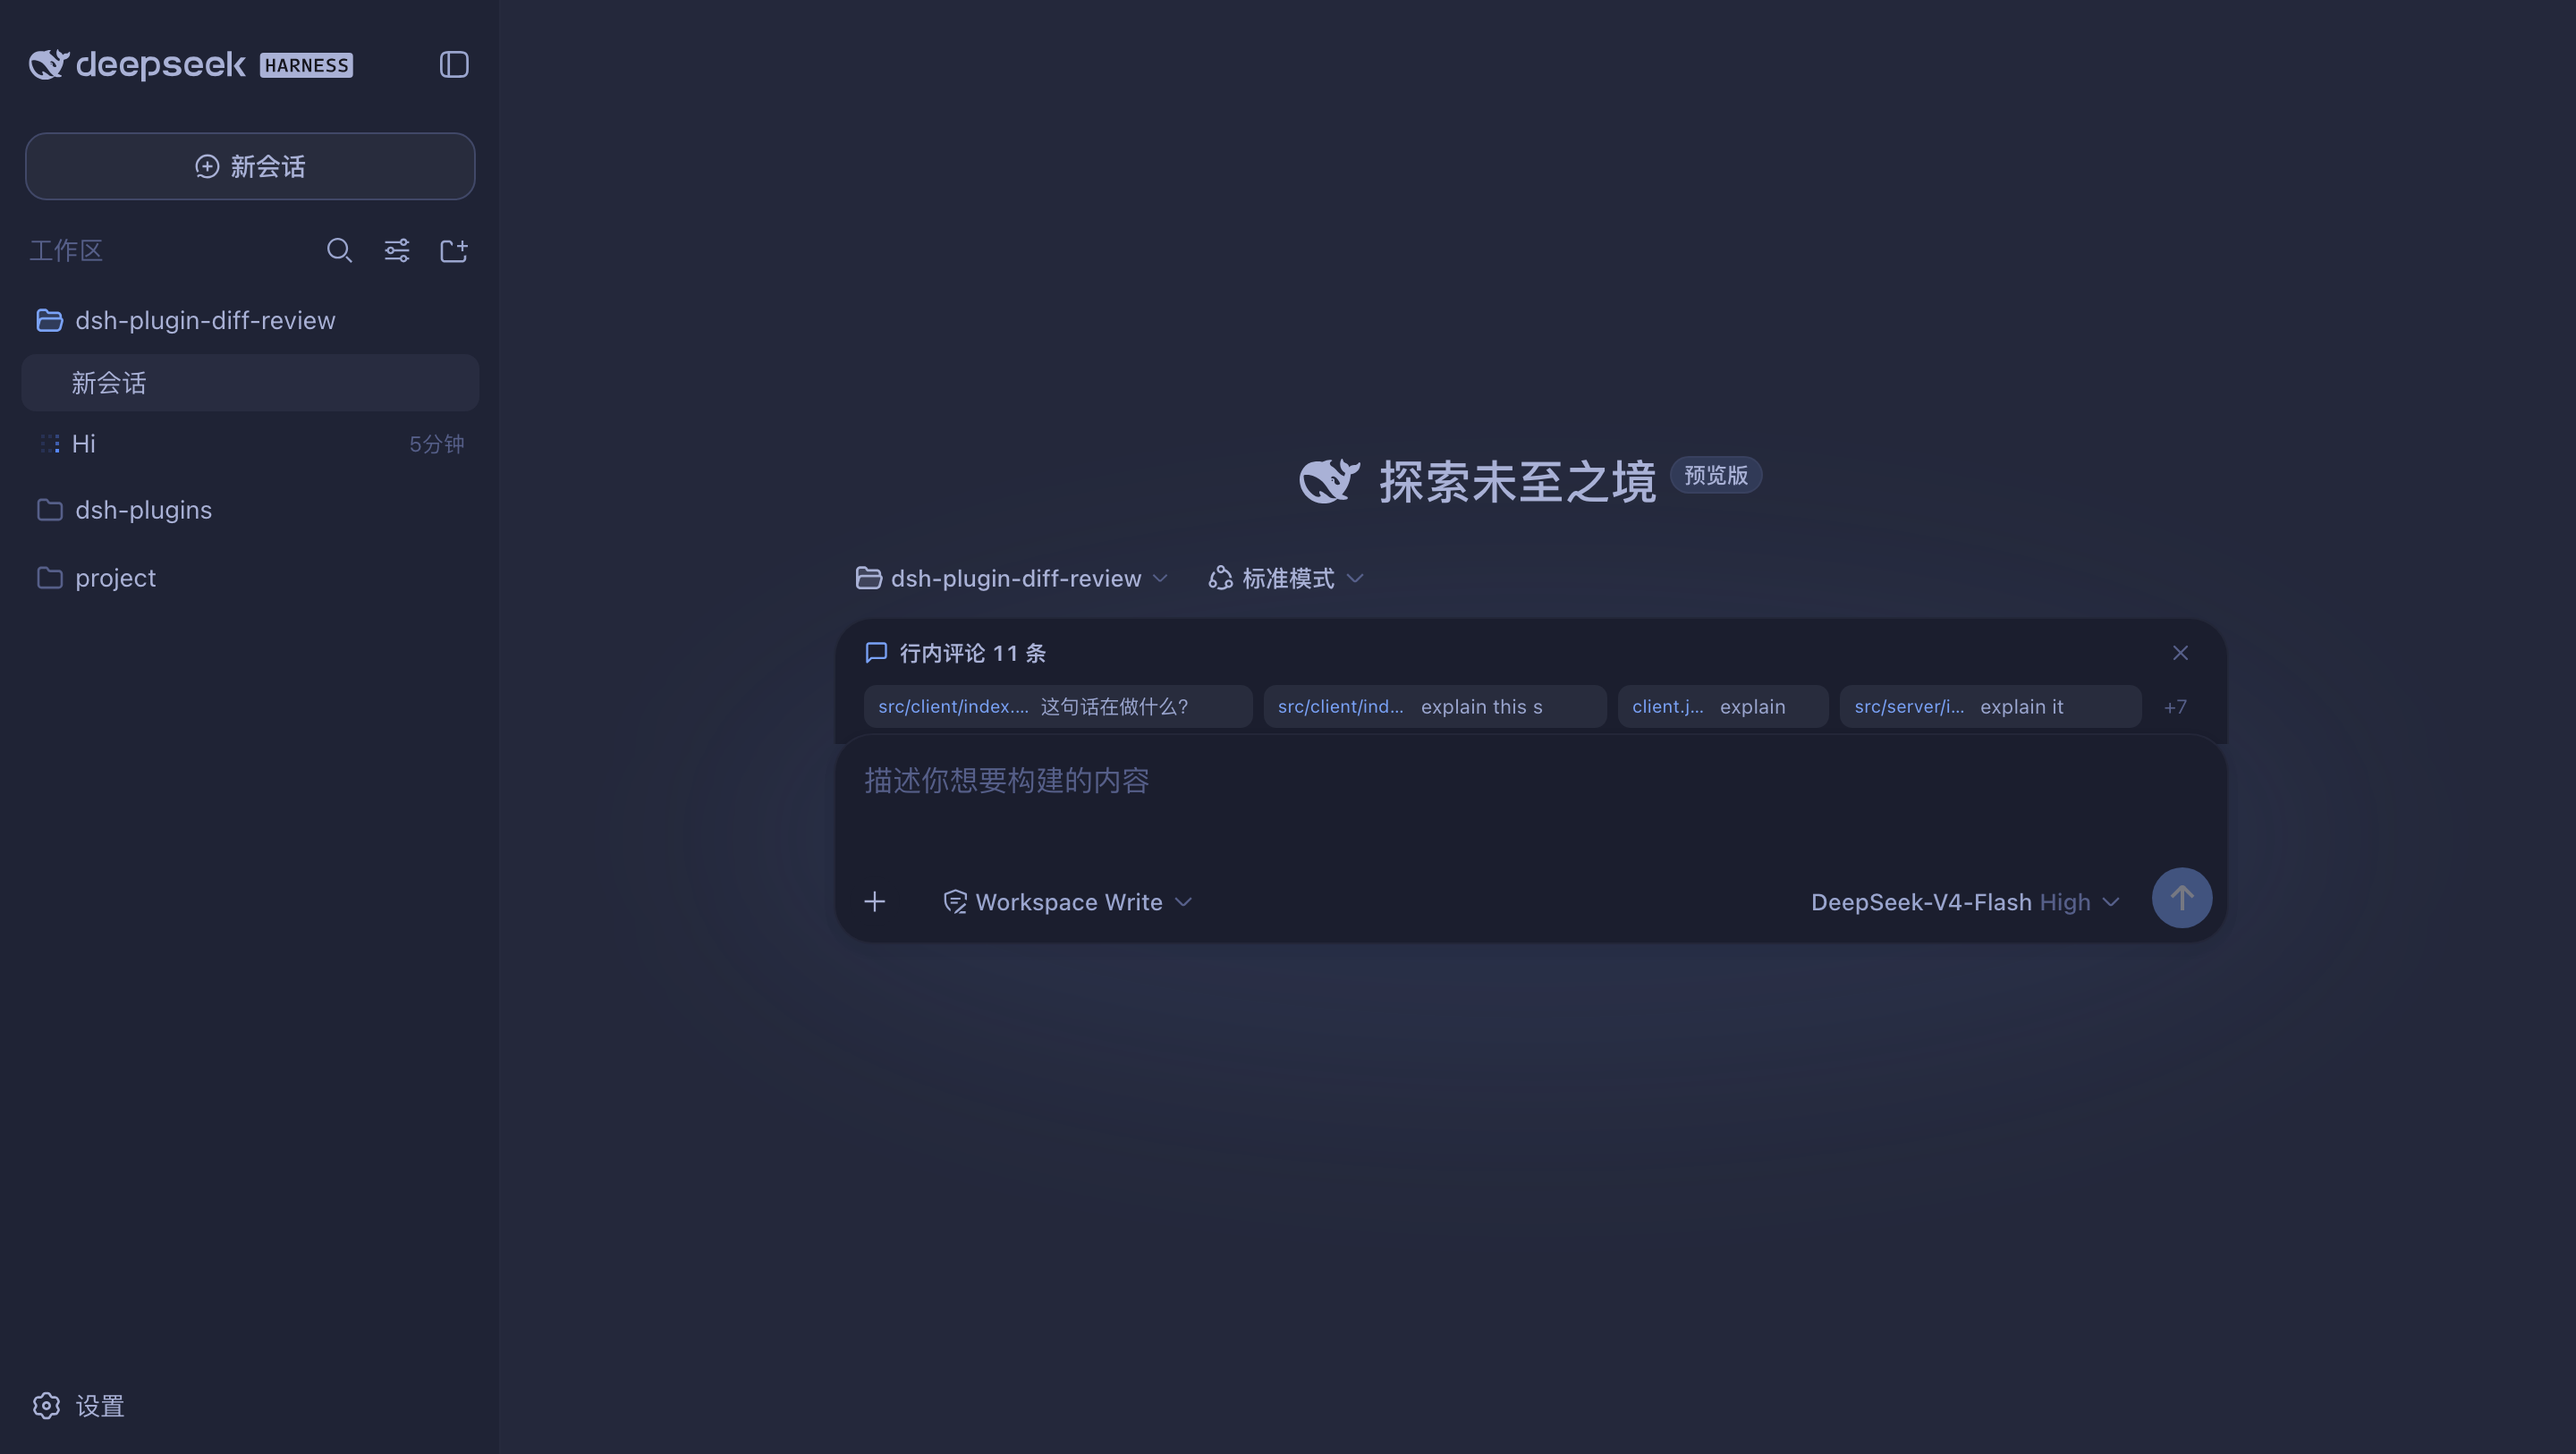
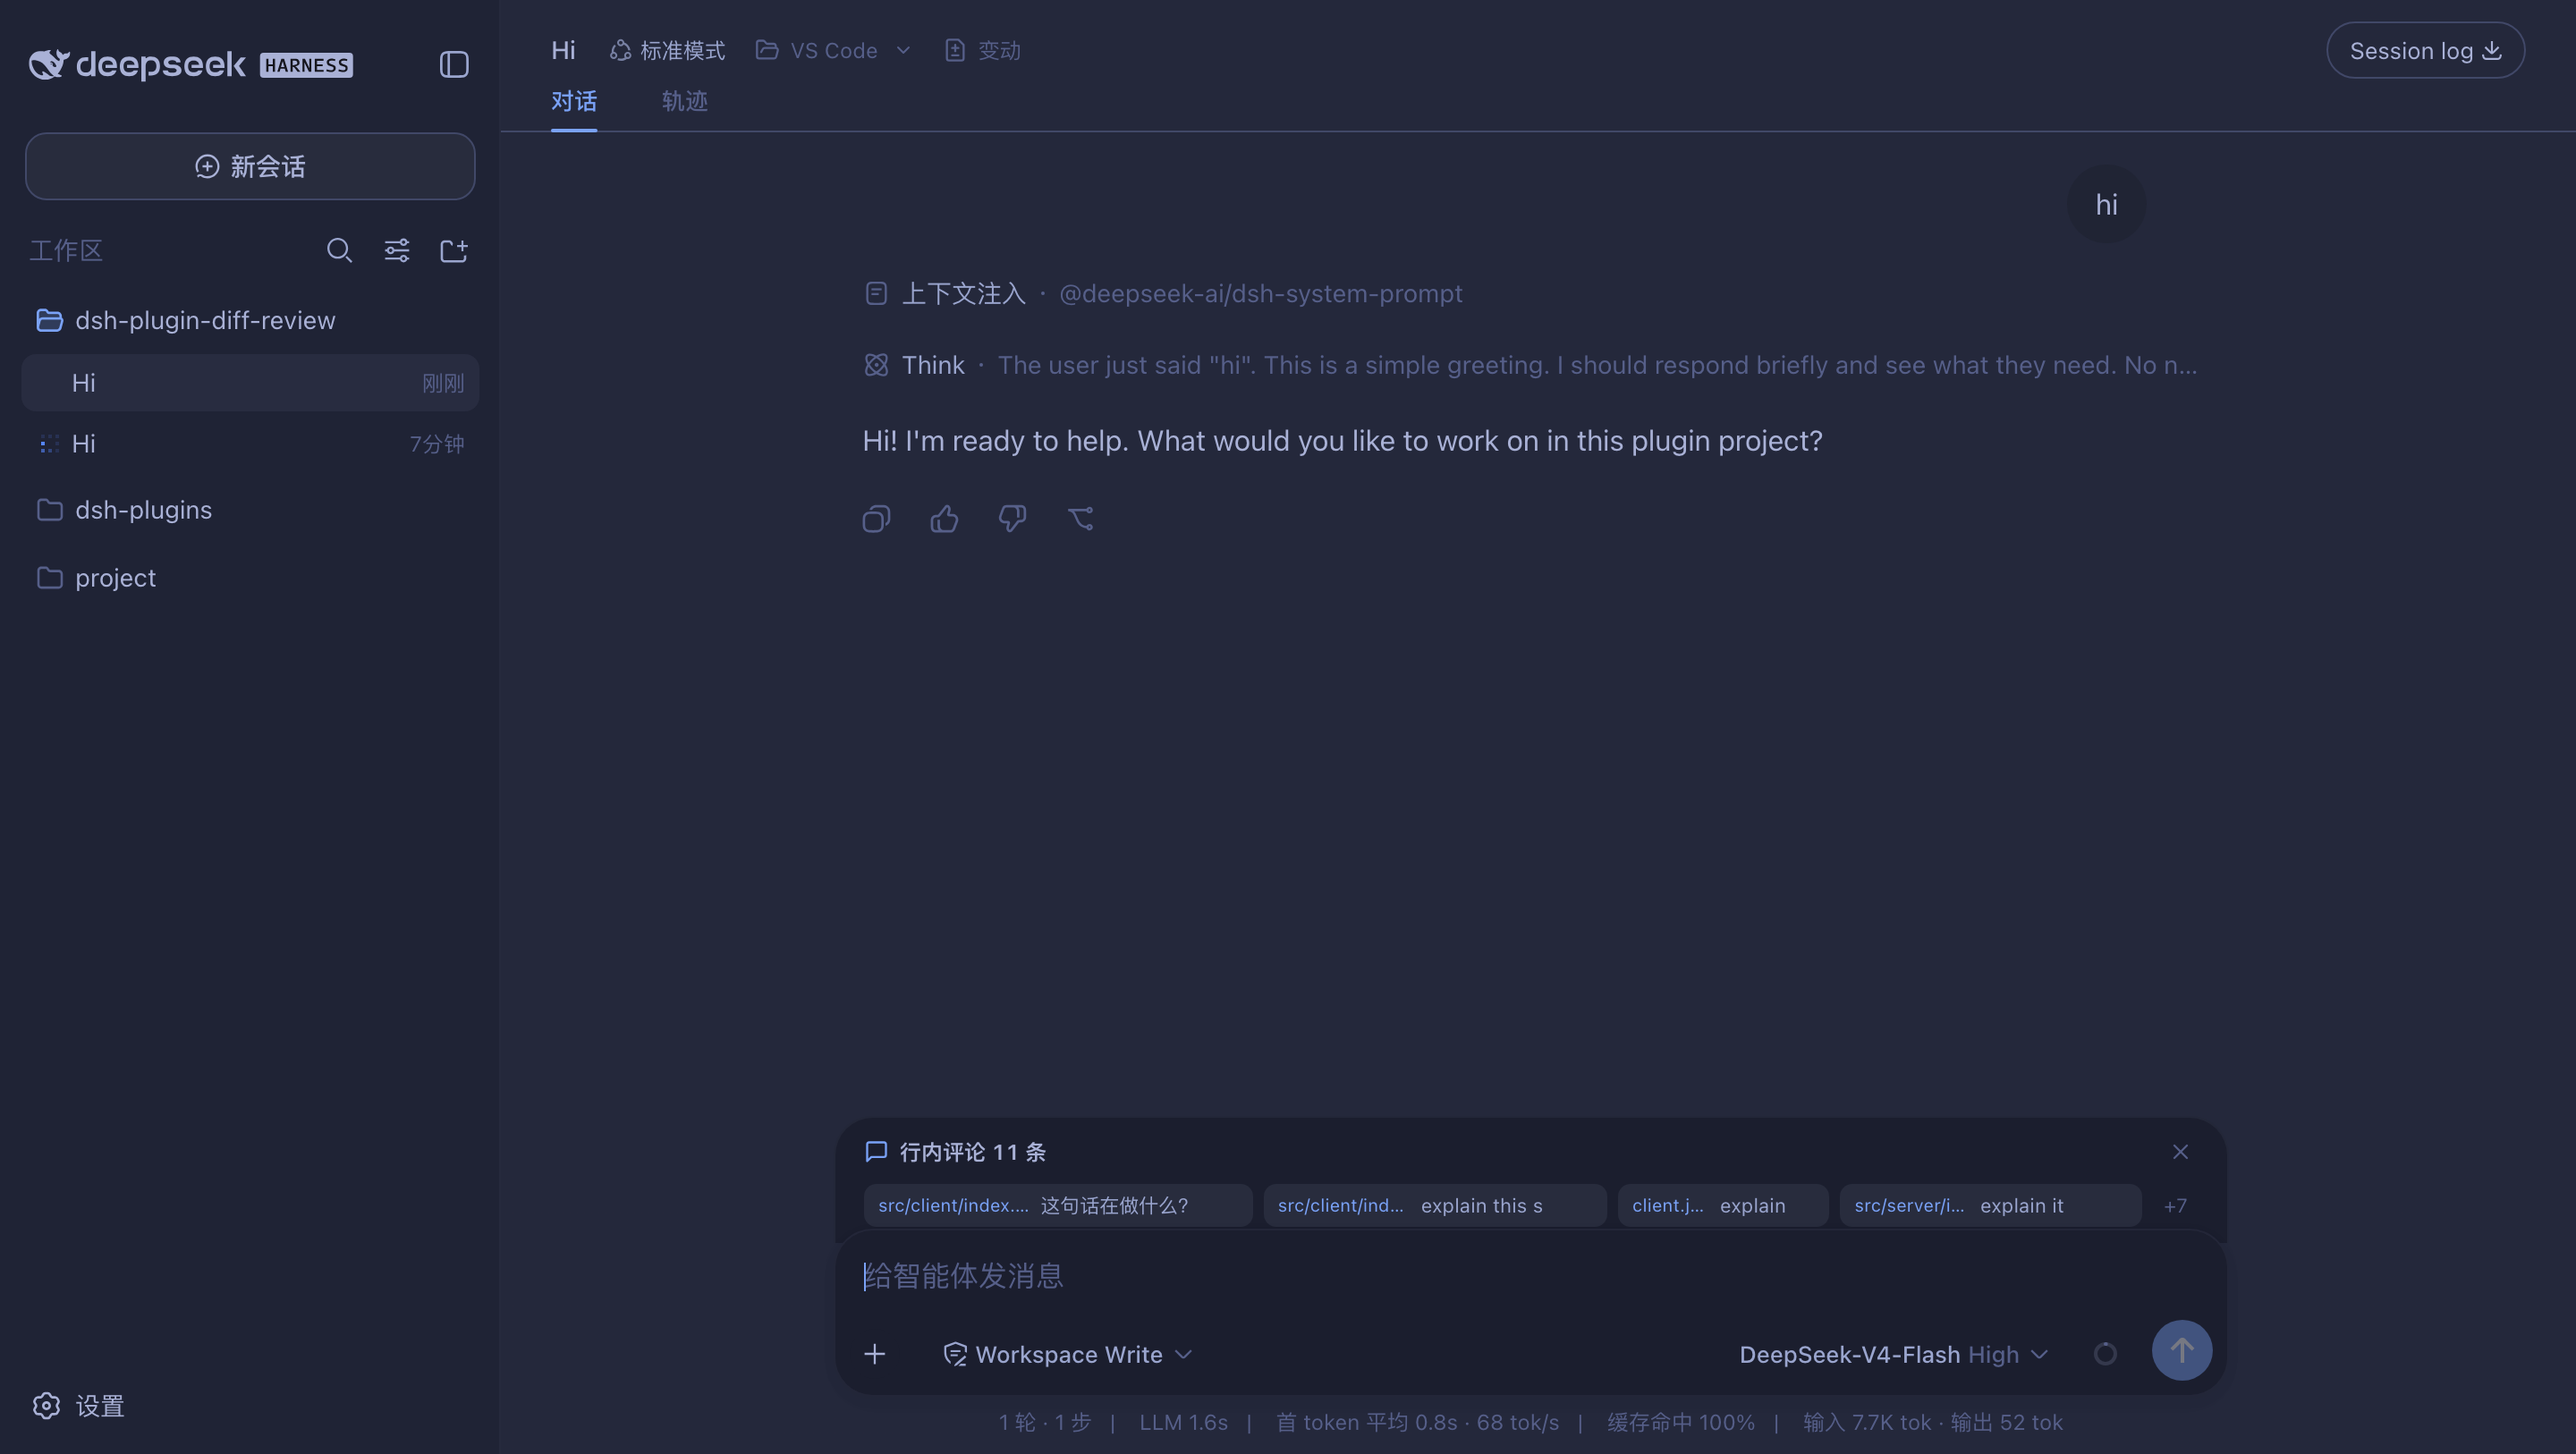
docs: real GUI screenshots for all key features
scripts/screenshot-all.mjs drives the running dsh web GUI over Chrome DevTools
Protocol: picks the workspace from the hero chip menu, sends one message to
activate the (empty, freshly restored) session, opens the 变动 panel and
captures the real UI — comment dock strip, workspace diff view, session-changes
view, and the conversation review card after sending via the dock.

README now shows these four authentic screenshots (replacing the last mock
holdover and the placeholder text); the earlier hero-only capture script is
removed in favor of screenshot-all.mjs.

diff --git a/README.md b/README.md
@@ -7,13 +7,25 @@
 
 ## 截图
 
-行内评论 chip 条（真实界面，输入框上方）：评论常驻显示（`路径:行号` + 摘要），
-点击 chip 跳转到对应变更块，点击顶栏发送评审包，超过 4 条折叠为 +N：
+（均为真实界面截图）
+
+行内评论 chip 条 —— 评论常驻输入框上方（`路径:行号` + 摘要），点击 chip 跳到
+对应变更块、点击顶栏发送，超过 4 条折叠为 +N：
 
 ![行内评论 chip 条](docs/screenshots/comments-real.png)
 
-工作区 / 会话更改面板为交互式界面（采纳/丢弃、逐 hunk、范围切换、AI 评审
-结论内联、提交/推送等），安装后打开「变动」即可体验。
+工作区 —— 已暂存 / 未暂存 / 历史 / 分支与远程分区 + 逐文件 unified diff
+（评论条同时浮于输入框上方）：
+
+![工作区](docs/screenshots/workspace-real.png)
+
+会话更改 —— 按轮列出代理修改，右侧查看每处 diff（不依赖 git）：
+
+![会话更改](docs/screenshots/session-real.png)
+
+评审卡片 —— 发送出去的评审包在会话里渲染为可点击卡片，点评论直达对应代码：
+
+![评审卡片](docs/screenshots/card-real.png)
 
 ## 特性
 
